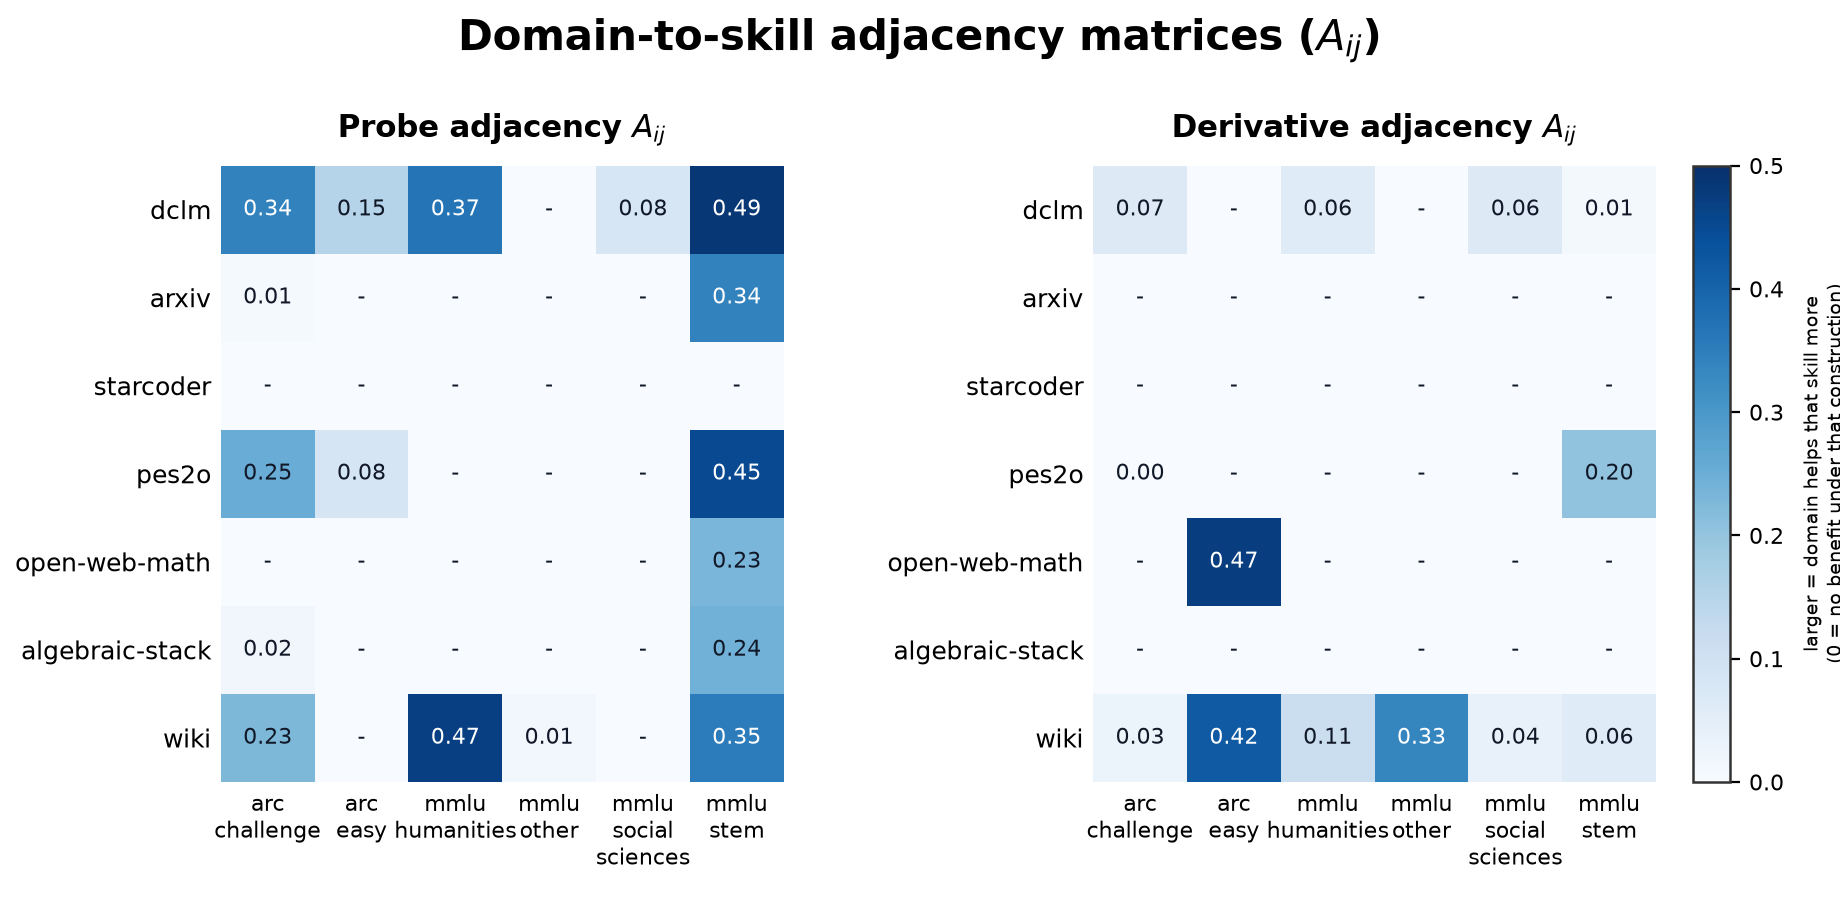
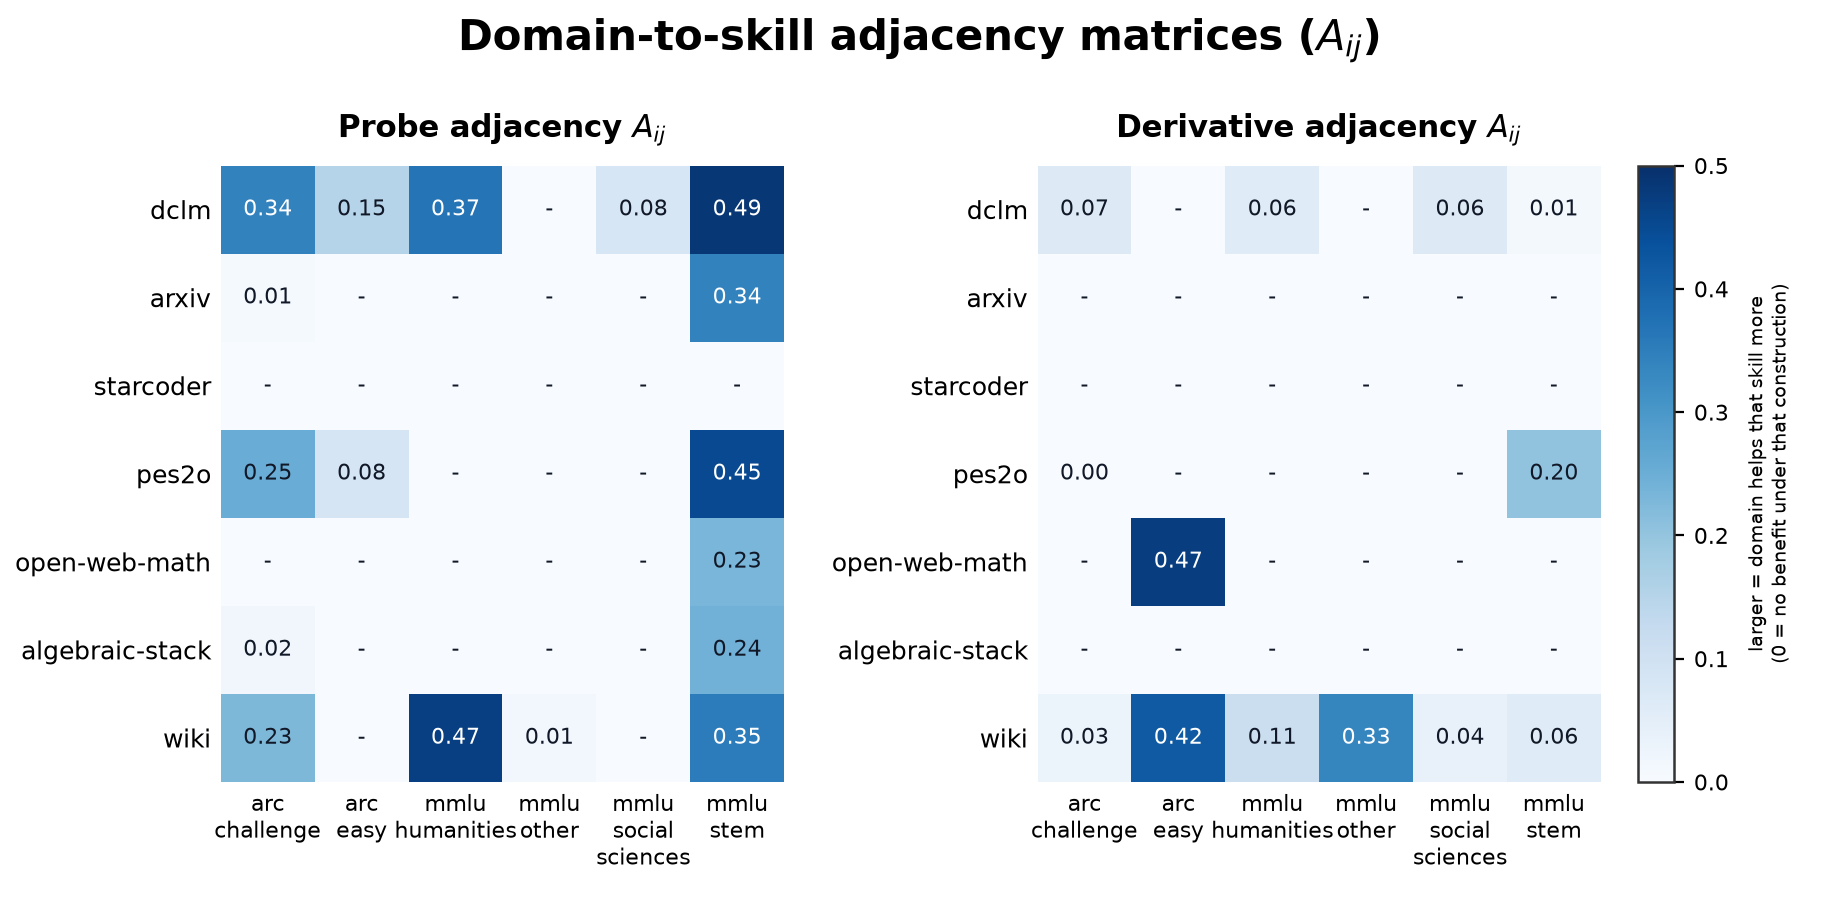
Keep Figure IV's colorbar label inside the canvas
The two-line colorbar label ran past the right edge of adjacency_comparison.png
and was cut off. Move the colorbar left and narrow the panel gap so the label
fits while the panels keep their width. Layout only; the matrices are unchanged.

diff --git a/experiments/skill-dag/skillit/plot_adjacency_comparison.py b/experiments/skill-dag/skillit/plot_adjacency_comparison.py
@@ -113,8 +113,8 @@ def main() -> None:
     draw_panel(axes[0], A_probe, title=r"Probe adjacency $A_{ij}$")
     im = draw_panel(axes[1], A_deriv, title=r"Derivative adjacency $A_{ij}$")
 
-    fig.subplots_adjust(left=0.12, right=0.90, top=0.82, bottom=0.15, wspace=0.55)
-    cax = fig.add_axes((0.92, 0.15, 0.02, 0.67))
+    fig.subplots_adjust(left=0.12, right=0.87, top=0.82, bottom=0.15, wspace=0.45)
+    cax = fig.add_axes((0.89, 0.15, 0.02, 0.67))
     cbar = fig.colorbar(im, cax=cax)
     cbar.set_label(
         "larger = domain helps that skill more\n(0 = no benefit under that construction)",
